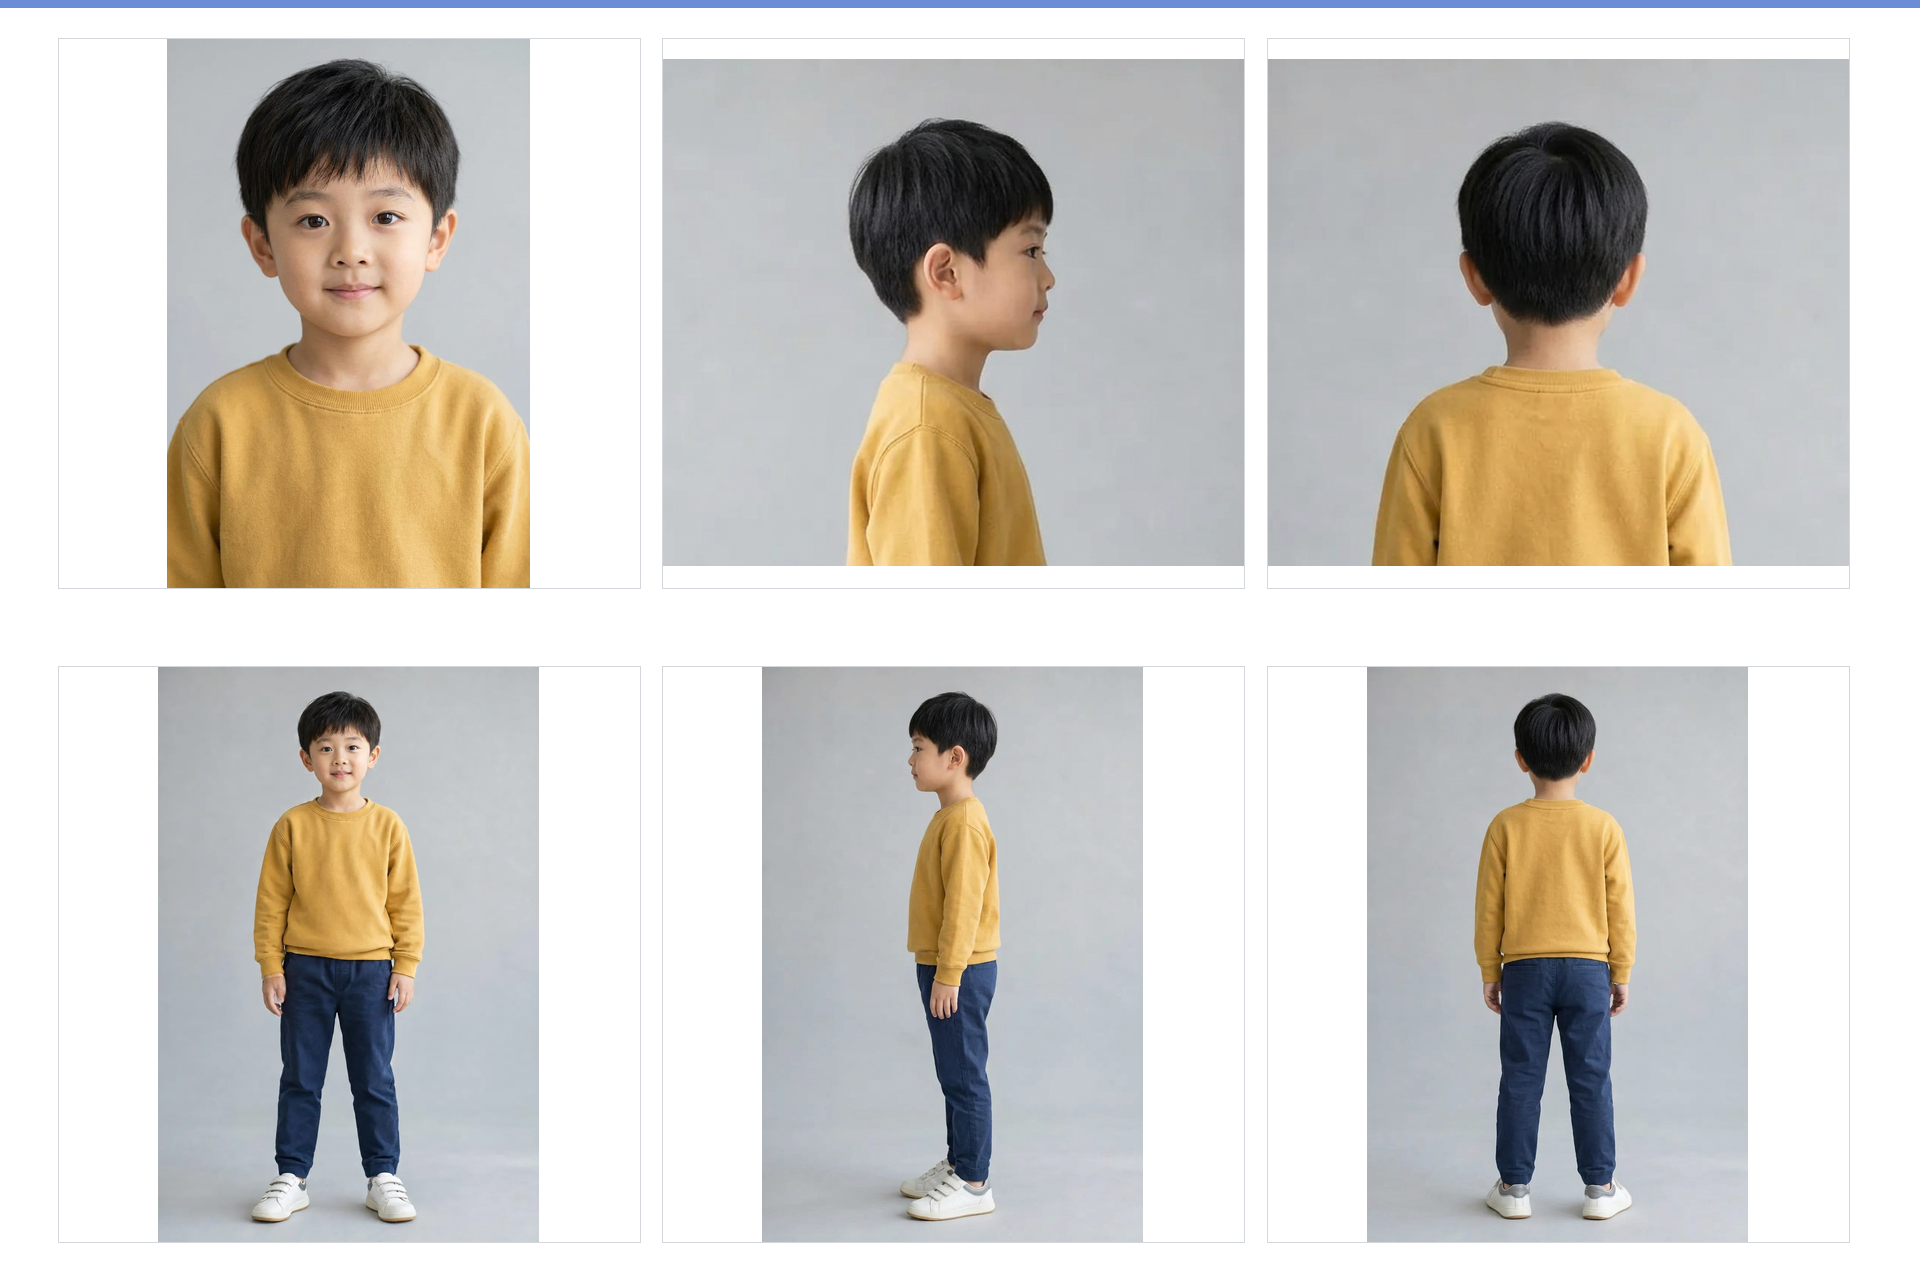
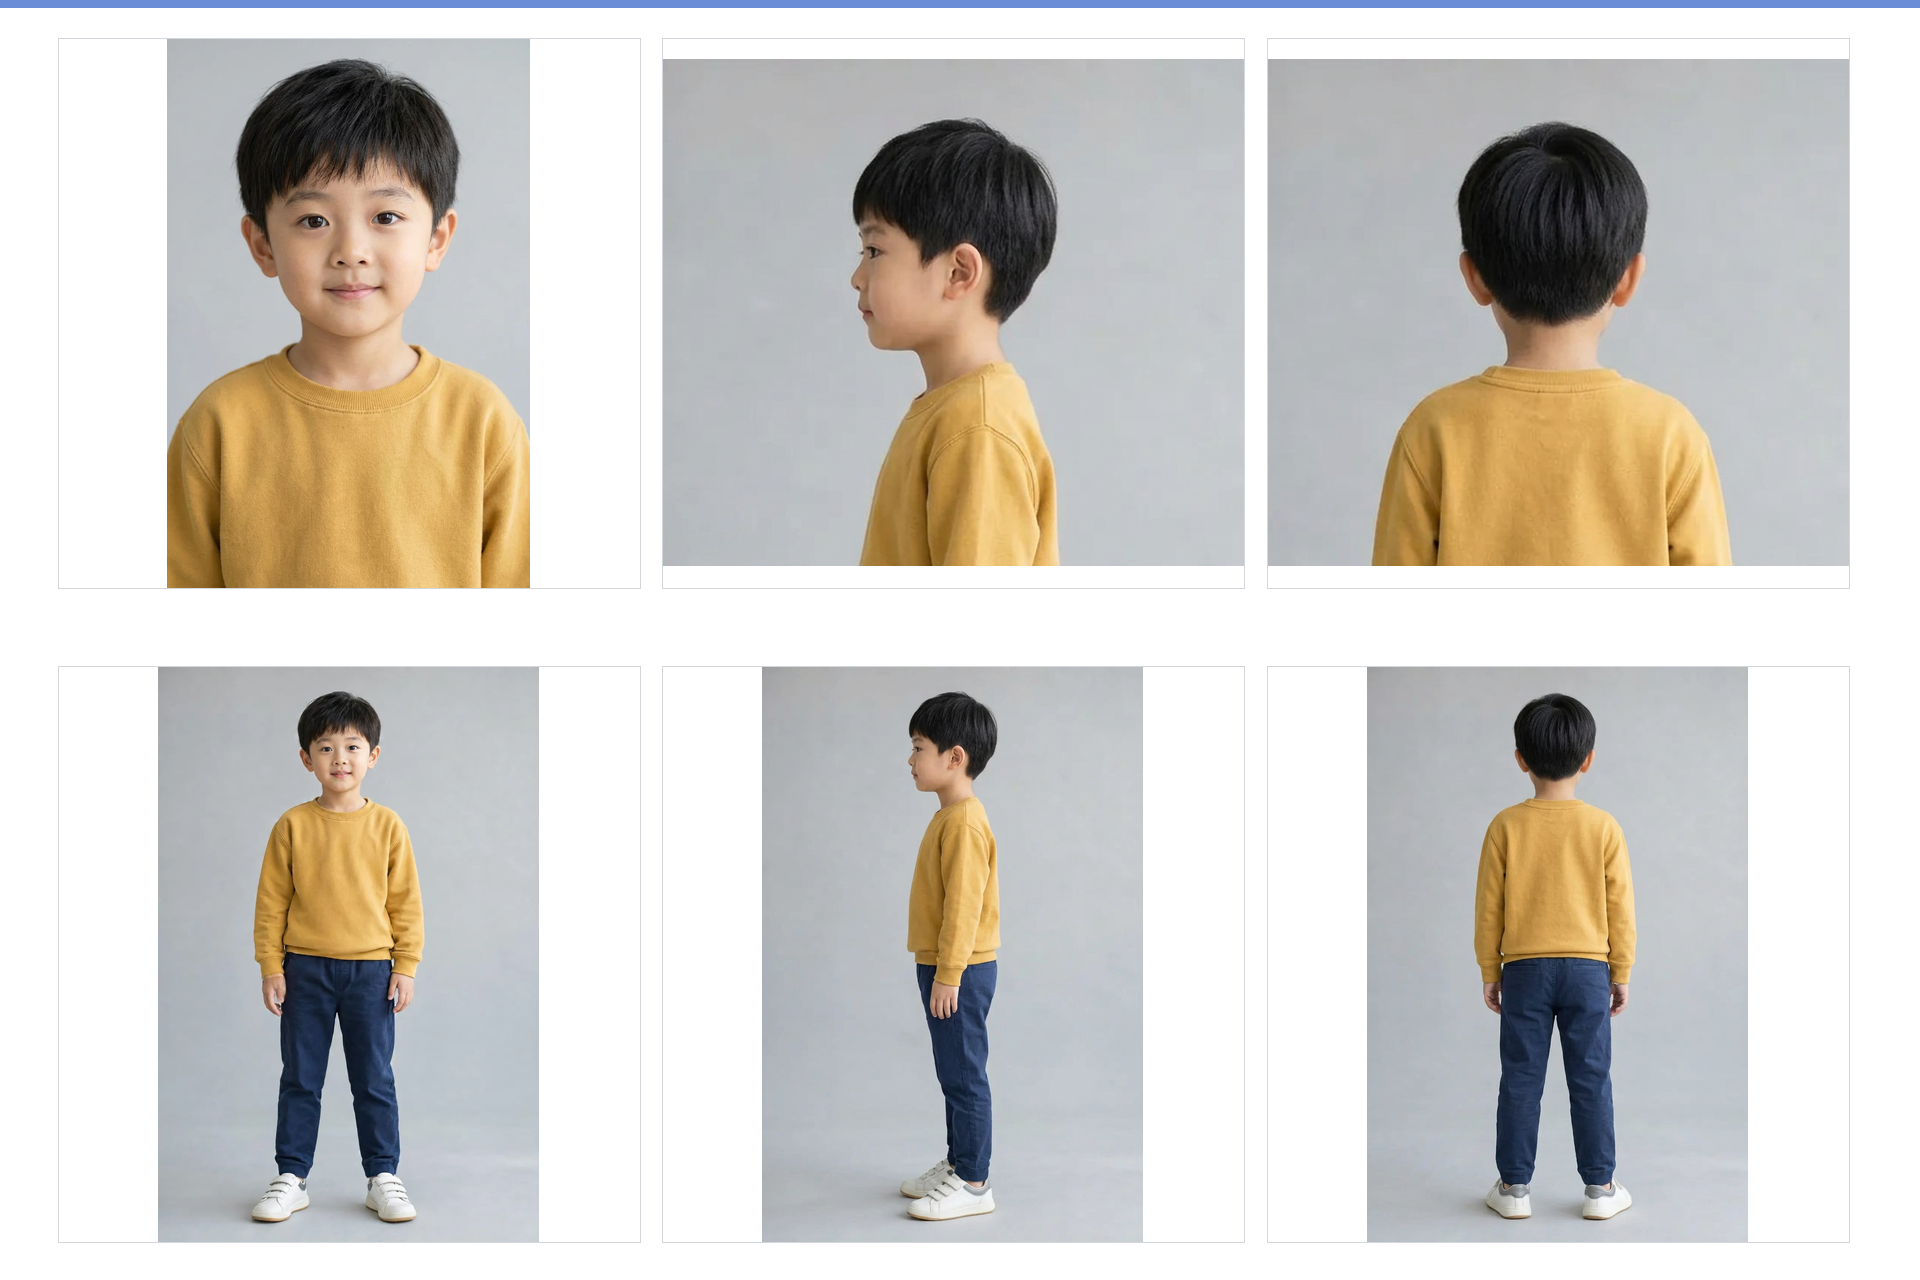
feat(multiview): 十格·设定集整卡；修正头像镜像误判；补齐表情与细节素材

Changed region(s): [[0.4375, 0.0938, 0.5625, 0.4688]]

diff --git a/outputs/multiview/build_cards.py b/outputs/multiview/build_cards.py
@@ -2,11 +2,12 @@
 """用仓库自带的 asset_composer / templates 把多视图素材拼成角色卡。
 
 运行： python3 outputs/multiview/build_cards.py
-输出： outputs/multiview/card_head_body_6.png （六格·三视图）
-       outputs/multiview/card_fiveref.png      （五格·正反）
+输出： outputs/multiview/card_school_ref.png    （十格·设定集，一张整卡）
+       outputs/multiview/card_head_body_6.png   （六格·三视图）
+       outputs/multiview/card_fiveref.png       （五格·正反）
 
 说明：fit_mode 用“完整显示”（contain），保证每个画格里的全身从头顶到鞋底都不被裁切；
-卡片底板沿用卡版默认白色，画格之间的留白就是排版留白。
+画格坐标、数量、画格比例全部取自 templates.py，取用规则来自 asset_composer.compose_role_card()。
 """
 
 from __future__ import annotations
@@ -23,6 +24,7 @@ if "ccs" not in sys.modules:
     pkg.__path__ = [str(ROOT)]  # 让仓库在没有 ComfyUI 环境时也能作为包导入
     sys.modules["ccs"] = pkg
 
+import numpy as np  # noqa: E402
 from PIL import Image, ImageOps  # noqa: E402
 
 from ccs.asset_composer import compose_role_card  # noqa: E402
@@ -31,46 +33,93 @@ from ccs.templates import get_template  # noqa: E402
 HERE = Path(__file__).resolve().parent
 VIEWS = HERE / "views"
 
-front = Image.open(VIEWS / "00_reference_front.png").convert("RGB")
-side = Image.open(VIEWS / "01_body_side.png").convert("RGB")
-back = Image.open(VIEWS / "02_body_back.png").convert("RGB")
-three_quarter = Image.open(VIEWS / "03_body_three_quarter.png").convert("RGB")
-headshot = Image.open(VIEWS / "04_head_portrait.png").convert("RGB")
 
-smile = Image.open(VIEWS / "05_expression_smile.png").convert("RGB")
-fabric = Image.open(VIEWS / "06_detail_fabric.png").convert("RGB")
+def _trim_dark_border(image: Image.Image, max_px: int = 10, threshold: float = 40.0) -> Image.Image:
+    """个别素材顶部会带 1~2 行近黑的导出边，先切掉，免得拼进画格里变成黑线。"""
+    arr = np.asarray(image.convert("RGB")).astype(float)
+    height, width, _ = arr.shape
+    top = bottom = left = right = 0
+    while top < max_px and arr[top].mean() < threshold:
+        top += 1
+    while bottom < max_px and arr[height - 1 - bottom].mean() < threshold:
+        bottom += 1
+    while left < max_px and arr[:, left].mean() < threshold:
+        left += 1
+    while right < max_px and arr[:, width - 1 - right].mean() < threshold:
+        right += 1
+    if top or bottom or left or right:
+        image = image.crop((left, top, width - right, height - bottom))
+    return image
 
 
-def tile(image: Image.Image, rows: int, cols: int, cell: int = 512) -> Image.Image:
-    """把单张素材铺成 rows×cols 的九宫格/六宫格，供 asset_composer 按格裁切取用。"""
-    sheet = Image.new("RGB", (cols * cell, rows * cell), "#f2f2f2")
-    piece = ImageOps.fit(image, (cell, cell), Image.Resampling.LANCZOS, centering=(0.5, 0.45))
+def load(name: str) -> Image.Image:
+    return _trim_dark_border(Image.open(VIEWS / name).convert("RGB"))
+
+
+front = load("00_reference_front.png")
+side = load("01_body_side.png")
+back = load("02_body_back.png")
+three_quarter = load("03_body_three_quarter.png")
+headshot = load("04_head_portrait.png")
+smile = load("05_expression_smile.png")
+fabric = load("06_detail_fabric.png")
+thinking = load("07_expression_thinking.png")
+surprised = load("08_expression_surprised.png")
+shoes = load("09_detail_shoes.png")
+collar = load("10_detail_collar.png")
+
+CELL = 512
+
+
+def grid(rows: int, cols: int, slots: dict[tuple[int, int], Image.Image], fallback: Image.Image, crop=None):
+    """按行优先顺序铺格子：asset_composer 的 crop_equal_grid 也是行优先，
+    所以 slots 里的 (row, col) 就是它取用时的下标 row*cols+col。"""
+    sheet = Image.new("RGB", (cols * CELL, rows * CELL), "#f2f2f2")
+    fallback_piece = ImageOps.fit(fallback, (CELL, CELL), Image.Resampling.LANCZOS, centering=(0.5, 0.45))
     for row in range(rows):
         for col in range(cols):
-            sheet.paste(piece, (col * cell, row * cell))
+            piece = slots.get((row, col))
+            if piece is None:
+                sheet.paste(fallback_piece, (col * CELL, row * CELL))
+                continue
+            if crop:
+                piece = ImageOps.fit(piece, crop, Image.Resampling.LANCZOS, centering=(0.5, 0.5))
+            sheet.paste(ImageOps.fit(piece, (CELL, CELL), Image.Resampling.LANCZOS, centering=(0.5, 0.3)),
+                        (col * CELL, row * CELL))
     return sheet
 
 
-expression_sheet = tile(smile, 2, 3)
-detail_sheet = tile(fabric, 3, 3)
+# 表情：2×3 → 下标 1=微笑、4=惊讶、5=沉思（其余格用平静头像占位，模板里不取用）
+expression_sheet = grid(
+    2,
+    3,
+    {(0, 1): smile, (1, 1): surprised, (1, 2): thinking},
+    fallback=headshot,
+)
 
-
-BACKGROUND = "#ffffff"  # 沿用卡版默认白底：素材按“完整显示”居中，四周留白不裁切
+# 细节：3×3 → 下标 2=面料、4=鞋履、5=领口；细节格是横向画格，先裁成横构图再铺
+detail_sheet = grid(
+    3,
+    3,
+    {(0, 2): fabric, (1, 1): shoes, (1, 2): collar},
+    fallback=fabric,
+    crop=(CELL * 3 // 2, CELL),
+)
 
 TARGETS = [
-    ("head_body_6", "card_head_body_6.png"),
-    ("fiveref", "card_fiveref.png"),
+    ("school_ref", "card_school_ref.png", "十格·设定集"),
+    ("head_body_6", "card_head_body_6.png", "六格·三视图"),
+    ("fiveref", "card_fiveref.png", "五格·正反"),
 ]
 
 reports: dict[str, dict] = {}
-for template_id, filename in TARGETS:
+for template_id, filename, label in TARGETS:
     template = copy.deepcopy(get_template(template_id))
-    template["defaults"]["background"] = BACKGROUND
     canvas, _assets, report = compose_role_card(
         full_front=front,
         full_profile=side,
         full_back=back,
-        action_a=three_quarter,
+        action_a=three_quarter,  # school_ref 的主立绘也走 action_a，用斜侧全身当主视觉
         action_b=three_quarter,
         headshot=headshot,
         expression_sheet=expression_sheet,
@@ -82,7 +131,7 @@ for template_id, filename in TARGETS:
     )
     canvas.save(HERE / filename)
     reports[template_id] = report
-    print("saved", filename, canvas.size)
+    print("saved", filename, label, canvas.size)
 
 (HERE / "compose_report.json").write_text(
     json.dumps(reports, ensure_ascii=False, indent=2), encoding="utf-8"

diff --git a/asset_composer.py b/asset_composer.py
@@ -97,7 +97,8 @@ def _portrait_for_cell(
     text = f"{cell.get('id', '')} {cell.get('label', '')} {cell.get('prompt', '')}".lower()
     if _contains_any(text, ("back", "后脑", "背面")):
         return _head_crop(full_back), "full_back_head_crop"
-    if _contains_any(text, ("right", "右侧")):
+    # 只有真正的右侧面才镜像：“人物朝画面右侧”讲的是朝向，不是右侧面，别被“右侧”两个字误伤
+    if "body_right" in text or _contains_any(text, ("朝左", "右半边脸", "右耳")):
         return ImageOps.mirror(_head_crop(full_profile)), "full_profile_head_crop_mirrored"
     # 四分之三要先判：它的提示词常带“斜侧/侧脸”，否则会被下面的侧面规则抢走
     if _contains_any(text, ("three_quarter", "斜侧", "四分之三", "三分之四")):

diff --git a/outputs/multiview/README.md b/outputs/multiview/README.md
@@ -1,32 +1,56 @@
-# 多视图产出 · 以 `2.webp` 为参考图
+# 多视图角色卡产出 · 以 `2.webp` 为参考图
 
 用本仓库的卡版数据（`templates.py`）+ 资产排版器（`asset_composer.py`）跑了一遍
-“一张参考图 → 多视图角色卡”的流水线。这里的模型侧生成由 Arena 的图像模型完成
-（仓库原本是交给 ComfyUI 里的 Qwen-Image 2.1 出图，流程和提示词结构一致）。
+“一张参考图 → 多视图 → 一张角色卡”的流水线。模型侧的出图由 Arena 的图像模型完成
+（仓库原本是交给 ComfyUI 里的 Qwen-Image 2.1 出图，流程、画格比例、取用规则完全一致）。
+
+## 主交付：`card_school_ref.png`（十格·设定集，2000×1400）
+
+一张卡装完：左侧主立绘，右侧上排三视图全身、中排三表情、下排三细节。
+
+| 画格 | 内容 | 素材 |
+|---|---|---|
+| 1 主立绘 | 四分之三斜侧全身 | `views/03_body_three_quarter.png` |
+| 2 正面全身 | 正面站姿 | `views/00_reference_front.png` |
+| 3 侧面全身 | 严格 90° 左侧面 | `views/01_body_side.png` |
+| 4 背面全身 | 严格 180° 背面 | `views/02_body_back.png` |
+| 5 甜美微笑 | 露齿笑表情 | `views/05_expression_smile.png` |
+| 6 低头沉思 | 垂眼看下方 | `views/07_expression_thinking.png` |
+| 7 惊讶张嘴 | 瞪眼张嘴 | `views/08_expression_surprised.png` |
+| 8 服装细节 | 卫衣面料微距 | `views/06_detail_fabric.png` |
+| 9 配饰细节 | 领口罗纹与肩缝（角色无配饰，用领口细节位） | `views/10_detail_collar.png` |
+| 10 鞋履细节 | 小白鞋与裤脚 | `views/09_detail_shoes.png` |
+
+## 其他卡版（同一批素材，换排版）
+
+- `card_head_body_6.png` — 六格·三视图（1920×1280）：上排正面/侧面/后脑头肩，下排正面/侧面/背面全身
+- `card_fiveref.png` — 五格·正反（1920×1200）：上排正面/四分之三头肩，下排正面/侧面/背面全身
 
 ## 视图素材（`views/`）
 
-| 文件 | 内容 | 对应卡版画格 |
-|---|---|---|
-| `00_reference_front.png` | 原始参考图（正面全身） | 正面全身 / 主立绘 |
-| `01_body_side.png` | 严格 90° 左侧面全身（朝画面右侧） | 侧面全身 |
-| `02_body_back.png` | 严格 180° 背面全身 | 背面全身 |
-| `03_body_three_quarter.png` | 四分之三斜侧全身 | 斜侧 / 动作位 |
-| `04_head_portrait.png` | 正面头肩肖像 | 正面头像 |
-| `05_expression_smile.png` | 微笑表情头肩 | 表情格 |
-| `06_detail_fabric.png` | 卫衣面料微距细节 | 细节格 |
+| 文件 | 内容 |
+|---|---|
+| `00_reference_front.png` | 原始参考图（正面全身） |
+| `01_body_side.png` | 严格 90° 左侧面全身（人物朝画面右侧） |
+| `02_body_back.png` | 严格 180° 背面全身 |
+| `03_body_three_quarter.png` | 四分之三斜侧全身 |
+| `04_head_portrait.png` | 正面头肩肖像 |
+| `05_expression_smile.png` | 微笑表情 |
+| `07_expression_thinking.png` | 低头沉思 |
+| `08_expression_surprised.png` | 惊讶 |
+| `06_detail_fabric.png` / `10_detail_collar.png` / `09_detail_shoes.png` | 面料 / 领口 / 鞋履 细节 |
 
 生成时统一锁定的角色特征：约 5 岁东亚男孩、短黑发齐刘海、芥末黄圆领卫衣、
-藏青休闲裤、白色魔术贴小白鞋、纯浅灰无缝影棚背景、柔和正面棚拍光。
+藏青休闲裤、白色魔术贴小白鞋、浅灰无缝影棚背景、柔和正面棚拍光；
 每个视图都要求“头顶到鞋底完整入镜，不裁切、单人不拼贴”。
 
-## 拼出来的卡（本目录根下）
+## 拼卡规则
 
-- `card_head_body_6.png` — 六格·三视图：上排正面/侧面/后脑头肩，下排正面/侧面/背面全身（1920×1280）
-- `card_fiveref.png` — 五格·正反：上排正面/四分之三头肩，下排正面/侧面/背面全身（1920×1200）
-
-两张卡都使用 `fit_mode="完整显示"`（contain），保证全身从头顶到鞋底都不被裁切；
-画格坐标、比例、边框全部来自 `templates.py`，没有另行排版。
+- 画格坐标、数量、比例全部来自 `templates.py`，取用规则来自 `asset_composer.compose_role_card()`；
+  `compose_report.json` 是“画格 ← 素材”的映射报告。
+- `fit_mode="完整显示"`（contain），保证全身从头顶到鞋底都不被裁切。
+- 表情/细节用 `crop_equal_grid` 的行优先下标贴进 2×3 / 3×3 素材表：
+  表情下标 1=微笑、4=惊讶、5=沉思；细节下标 2=面料、4=鞋履、5=领口。
 
 ## 复现
 
@@ -35,19 +59,14 @@ pip install pillow numpy
 python3 outputs/multiview/build_cards.py
 ```
 
-脚本用 `importlib` 之外的轻量方式把仓库当成 `ccs` 包加载，
-所以不需要 ComfyUI 环境（`folder_paths` 等只在 `nodes.py` 里用到，这里没有导入它）。
+脚本不需要 ComfyUI 环境（`folder_paths` 只在 `nodes.py` 里用到，这里没有导入它）。
 
-`compose_report.json` 是每个画格取用了哪张素材的映射报告，便于核对。
+## 顺带修的两个映射问题（`asset_composer.py`）
 
-## 顺带修的一个小问题
+1. `_portrait_for_cell()` 里“四分之三”判断原本排在“侧面”之后，而四分之三的提示词本身带
+   “斜侧/侧脸”，导致四分之三头像格永远拿到侧面头像 → 已把 `three_quarter` 判断提前。
+2. 同一函数用 `"右侧"` 两个字判断“右侧面要镜像”，但“人物朝画面右侧”讲的是朝向，
+   结果左侧面头像被镜像成朝左 → 改成按 `body_right` / “朝左·右半边脸·右耳”判断。
 
-`asset_composer._portrait_for_cell()` 里“四分之三头像”的判断原本排在“侧面”判断之后，
-而四分之三的提示词里本身就带“斜侧/侧脸/侧面”字样，导致 `四分之三头像` 格永远拿到侧面头像。
-已把 `three_quarter` 判断提到前面，`tests/layout_contract.py`、`tests/smoke_renderer.py` 通过。
-
-## 本轮没有做的
-
-- `sixtilt_ref`（六格·主视觉）里“主立绘”和“动作全身”都走 `action_a`，
-  没有独立动作图时会重复同一张，所以这张卡没有出。
-- 表情只做了一张微笑（多格子需要 4~6 个不同表情），细节只做了面料。
+`tests/layout_contract.py`、`tests/smoke_renderer.py` 通过（`workflow_smoke.py` / `ui_smoke.py`
+需要 playwright，本环境未安装）。
